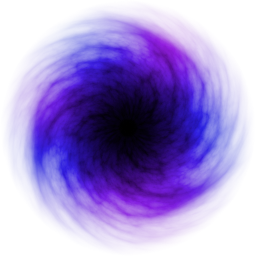
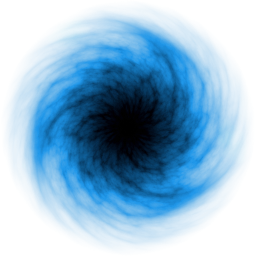
fix interpolation, new jump effect, new sprites

diff --git a/client/js/stage/objects/user.js b/client/js/stage/objects/user.js
@@ -35,23 +35,24 @@ define(function (require) {
             return info;
 
         },
-        _applyAction: function (timestamp, action) {
+        _applyAction: function (action, timestamp) {
             switch (action.tag) {
                 case "MoveRoute":
-                    this._applyMoveRoute(timestamp, action);
+                    this._applyMoveRoute(action, timestamp);
                     break;
                 case "Rotation":
+                    this._applyRotation(action, timestamp);
                     break;
                 default:
-                    User.__super__._applyAction.call(this, timestamp, action);
+                    User.__super__._applyAction.call(this, action, timestamp);
             }
         },
-        _applyMoveRoute: function (timestamp, a) {
+        _applyMoveRoute: function (a, timestamp) {
             if (timestamp >= a.endTs) {
                 this.set("pos", _.last(a.positions));
                 return;
             }
-            var t = this._getT(timestamp, a);
+            var t = this._getT(a, timestamp);
             var tv = new Victor(t, t);
             function reduce(points) {
                 if (points.length === 2) {
@@ -72,11 +73,19 @@ define(function (require) {
             var res = reduce(_.map(a.positions, Victor.fromArray));
             this.set(res);
         },
+        _applyRotation: function (a, timestamp) {
+            if (timestamp >= a.endTs) {
+                this.set("angle", a.endAngle);
+                return;
+            }
+            var t = this._getT(a, timestamp);
+            var angle = (a.endAngle - a.startAngle) * t + a.startAngle;
+            this.set("angle", angle);
+        }
     });
 
 
     UserView = views.StageObject.extend({
-        texturePath: "img/ship.png",
         initialize: function (options) {
             UserView.__super__.initialize.call(this, options);
             this._isSelf = options.isSelf;
@@ -88,12 +97,16 @@ define(function (require) {
             if (!this._updateAllowed) return;
             UserView.__super__.update.call(this);
         },
+        _getTexturePath: function () {
+            return "img/" + this._model.get("asset") + ".png";
+        },
         _getTextColor: function () {
             return this._isSelf ? "#8B8FBD" : "white";
         },
         _appearanceEffect: function () {
             var self = this;
-            var size = this._model.get("size");
+            var model = this._model;
+            var size = model.get("size");
             var width = size[0];
             var height = size[1];
             var sprite = this._sprite;
@@ -112,10 +125,23 @@ define(function (require) {
                     tween = TweenLite.to(sprite, 1, toProps);
                     break;
                 case "Entry":
-                    sprite.width = 50 * width;
+                    var dist = 20 * width;
+                    var fromPos = new Victor(1, 0)
+                                    .rotateDeg(model.get("angle"))
+                                    .multiply(new Victor(dist, dist))
+                                    .invert()
+                                    .unfloat();
+                    sprite.x = fromPos.x;
+                    sprite.y = -fromPos.y;
+                    sprite.width = 40 * width;
                     sprite.height = 0.01 * height;
-                    tween = TweenLite.to(sprite, 0.5,
-                                        {width: width, height: height});
+                    toProps = {
+                        x: 0,
+                        y: 0,
+                        width: width,
+                        height: height
+                    };
+                    tween = TweenLite.to(sprite, 0.2, toProps);
                     break;
                 case "Recovery":
                     tween = UserView.__super__._appearanceEffect.call(this);
@@ -133,7 +159,9 @@ define(function (require) {
             return UserView.__super__._getDisappearanceReason.call(this);
         },
         _disappearanceEffect: function (reason, sprite) {
-            var size = this._model.get("size");
+            var model = this._model;
+            var size = model.get("size");
+            var pos = Victor.fromArray(model.get("pos"));
             var width = size[0];
             var height = size[1];
             var rotation = this._getRotation();
@@ -145,8 +173,19 @@ define(function (require) {
                     tween = TweenLite.to(sprite, 0.5, toProps);
                     break;
                 case "Exit":
-                    toProps = {width: 50 * width, height: 0.01 * height};
-                    tween = TweenLite.to(sprite, 0.5, toProps);
+                    var dist = 20 * width;
+                    var targetPos = new Victor(1, 0)
+                                    .rotateDeg(model.get("angle"))
+                                    .multiply(new Victor(dist, dist))
+                                    .add(pos)
+                                    .unfloat();
+                    toProps = {
+                        x: targetPos.x,
+                        y: -targetPos.y,
+                        width: 40 * width,
+                        height: 0.01 * height
+                    };
+                    tween = TweenLite.to(sprite, 0.2, toProps);
                     break;
                 case "LogOut":
                     toProps = {

diff --git a/client/js/stage/models.js b/client/js/stage/models.js
@@ -47,29 +47,34 @@ define(function (require) {
             return {};
         },
         applyActions: function (timestamp) {
-            _.each(this.get("actions"),
-                   this._applyAction.bind(this, timestamp));
+            _.each(this.get("actions"), function (action) {
+                   this._applyAction(action, timestamp);
+            }, this);
         },
-        _applyAction: function (timestamp, action) {
+        _applyAction: function (action, timestamp) {
             switch (action.tag) {
                 case "MoveDistance":
-                    this._applyMoveDistance(timestamp, action);
+                    this._applyMoveDistance(action, timestamp);
                     break;
                 case "EternalRotation":
+                    this._applyEternalRotation(action, timestamp);
                     break;
                 default:
                     console.log("Unknown action " + action.tag);
             }
         },
-        _getT: function (timestamp, a) {
+        _getT: function (a, timestamp) {
             return (timestamp - a.startTs) / (a.endTs - a.startTs);
         },
-        _applyMoveDistance: function (timestamp, a) {
+        _getSecondsDelta: function (a, timestamp) {
+            return (timestamp - a.startTs) / 1000;
+        },
+        _applyMoveDistance: function (a, timestamp) {
             if (timestamp >= a.endTs) {
                 this.set("pos", a.endPos);
                 return;
             }
-            var t = this._getT(timestamp, a);
+            var t = this._getT(a, timestamp);
             var startPos = Victor.fromArray(a.startPos);
             var endPos = Victor.fromArray(a.endPos);
             var pos = endPos
@@ -79,6 +84,11 @@ define(function (require) {
                       .unfloat();
             this.set("pos", pos.toArray());
         },
+        _applyEternalRotation: function (a, timestamp) {
+            var secondsDelta = this._getSecondsDelta(a, timestamp);
+            var newAngle = (a.startAngle + a.rotSpeed * secondsDelta) % 360;
+            this.set("angle", newAngle);
+        }
     });
 
     return {

diff --git a/client/js/stage/objects/asteroid.js b/client/js/stage/objects/asteroid.js
@@ -33,21 +33,33 @@ define(function (require) {
                 pullAllowed: pullAllowed
             };
         },
-        _applyAction: function (timestamp, action) {
+        _applyAction: function (action, timestamp) {
             switch (action.tag) {
                 case "MoveCircularTrajectory":
+                    this._applyMoveCircularTrajectory(action, timestamp);
                     break;
                 default:
-                    Asteroid.__super__._applyAction.call(this,
-                                                         timestamp, action);
+                    Asteroid.__super__._applyAction.call(this, action,
+                                                         timestamp);
             }
         },
+        _applyMoveCircularTrajectory: function (a, timestamp) {
+            var secondsDelta = this._getSecondsDelta(a, timestamp);
+            var angle = (a.startAngle + a.rotSpeed * secondsDelta) % 360;
+            var pos = new Victor(1, 0)
+                        .rotateDeg(angle)
+                        .multiply(new Victor(a.radius, a.radius))
+                        .add(Victor.fromArray(a.center));
+            this.set("pos", pos.toArray());
+        }
     });
 
 
     AsteroidView = views.StageObject.extend({
-        texturePath: "img/asteroid.png",
-        showName: false
+        showName: false,
+        _getTexturePath: function () {
+            return "img/" + this._model.get("asset") + ".png";
+        },
     });
 
     return {

diff --git a/client/js/stage/controller.js b/client/js/stage/controller.js
@@ -322,7 +322,6 @@ define(function (require) {
             });
             this._renderer.render(this._stage);
         },
-
         _startInterpolation: function () {
             this._interpolationLoopId = window.setInterval(
                 this._interpolationStep,
